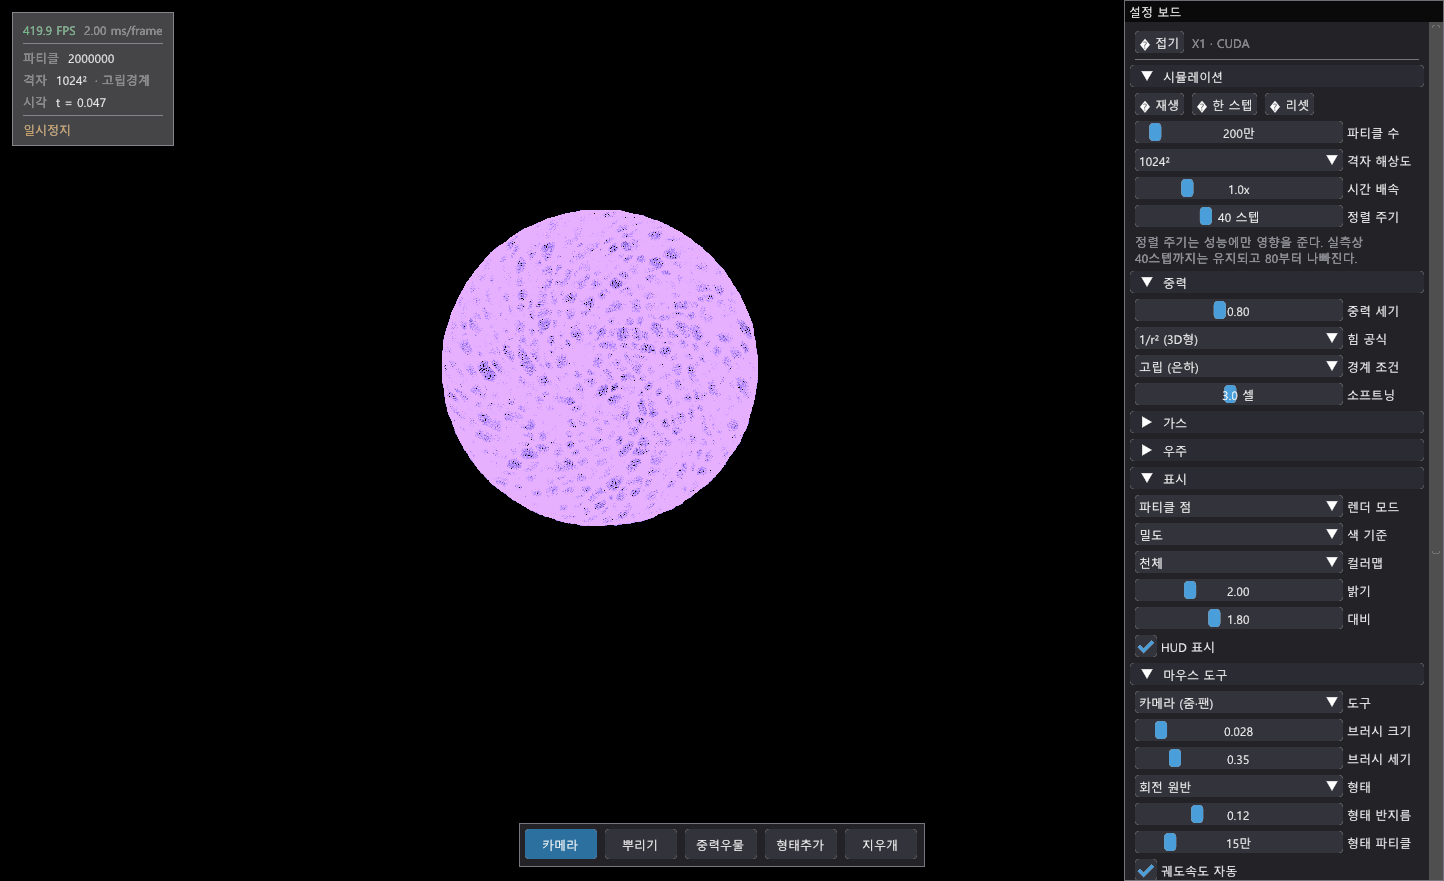
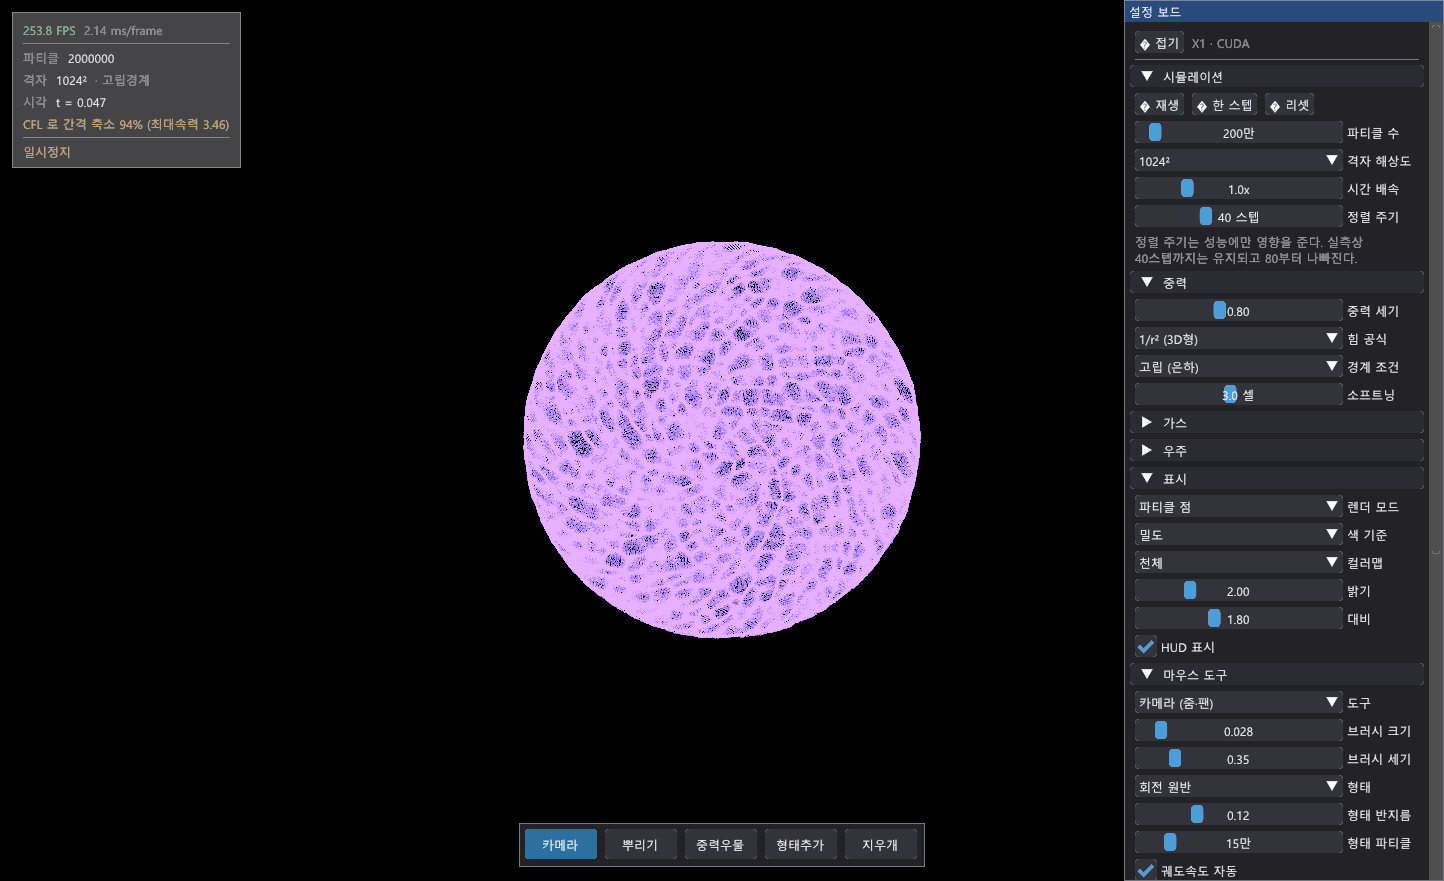
docs: round-07 스펙 카운터 복구와 바퀴 기록
되돌렸던 11항목 중 8항목을 증분 1에서, 3항목을 증분 2에서 근거와 함께 다시 채웠다.
증분 3까지의 판단 기록과 남은 항목을 work.md 에 적었다.

Changed region(s): [[0.2805, 0.2145, 0.6544, 0.7355], [0.0, 0.0, 0.187, 0.2145], [0.7791, 0.0, 1.0, 0.0306]]

diff --git a/.drive/nbody-simulator/work.md b/.drive/nbody-simulator/work.md
@@ -50,11 +50,46 @@ resume_idle_count: 0
 | round-04 | 커밋 `6b2dfbd`, `round-04-spec-compare.md`, 회귀 24 PASS + MCP 시나리오 7 PASS | 마우스 개입 6항목 완료. 미충족 **9** |
 | round-05 | 커밋 `c6c88f1`, `round-05-spec-compare.md`, 회귀 24 PASS + MCP 가스/우주/표시/녹화 8 PASS | **미충족 0 / 충족 44 — 6번 칸 PASS** |
 | round-06 | `round-06-review.md`(codex gpt-5.6-sol), `round-06-qa.md` + 스크린샷 38장 | 7번 칸 **GATE: FAIL**(P1 17 / P2 21) · 8번 칸 **QA FAIL**(37 PASS / 3 FAIL / 4 확인불가) → 5번 칸으로 되돌아감 |
+| round-07 증분 1 | 커밋 `1a921ce`, `mcp/bridge-test.js`(신규 영구 회귀), 회귀 **25 PASS** + 브릿지 **5 PASS** | 설정 전달 경로·시간 배속·상태 노출 복구. 되돌린 11항목 중 **8항목 회복 → 미충족 3** |
+| round-07 증분 2 | 커밋 `d398231`, `round-07-qa/points-cmap-*.png`, 회귀 **27 PASS** + 브릿지 **5 PASS** | `isStar` 정렬·압축(P1 #5·#6), 주기 경계 소프트닝(P2 #19), 점 렌더 컬러맵(P2 #26). **미충족 0** |
+| round-07 증분 3 | 커밋 `3d2ec4d`, 회귀 **27 PASS** + 브릿지 **7 PASS** | 남은 P1 전부: CUDA 오류 차단(#7·#8·#9·#12) · VRAM 추정(#10·#11) · 입력 검증(#13) · MCP 주입·동시성·step 완료·경로(#14~#17). P2 도 #27·#29·#30·#31·#36·#38 처리 |
 
 ## 다음 칸
 
-**round-07 = 5번 칸(구현 루프)** — 7·8번 칸이 둘 다 FAIL 이라 바퀴를 올려 되돌아간다.
-고치고 나면 7(재리뷰) → 8(재QA, 손댄 부분만) → 9(regression) → 10(보고).
+**round-07 증분 2 = 5번 칸 계속** — 미충족 3항목이 각각 남은 P1/P2 에 걸려 있다.
+
+| 미충족 항목 | 걸린 결함 |
+|---|---|
+| 소프트닝을 조절해 근거리 거동이 달라진다 | P2 #19 — 주기 경계 주파수 커널이 `softeningCells` 를 안 쓴다(`Sim.cu:731`) |
+| 별 형성을 켜서 조밀·차가운 가스가 별로 바뀐다 | P1 #5 정렬이 `isStar` 를 안 옮김 · #6 지우개 압축이 `isStar` 를 안 압축 · #4 부분 점유 정렬 불변식 |
+| 컬러맵을 천체/흑백/열화상으로 바꾼다 | P2 #26 — 점 렌더 커널에 `cmapKind` 를 안 넘긴다(`RenderField.cu:100`) |
+
+**증분 3(다음)** — 스펙 미충족은 0 이지만 **7번 칸 재리뷰가 아직 못 통과한다.** 남은 P1 8건:
+CUDA 오류 처리(#7 로그 후 계속 · #8 cuFFT 계획 실패 무시 · #9 CUB sort 반환값 미확인 ·
+#12 `devAccum_` 할당 미확인) · VRAM 추정 누락(#10) · `maxN==0` 클램프 생략(#11) ·
+외부 설정 범위 검증(#13) · MCP 명령 주입(#14) · 동시 호출 충돌(#15) · step 완료 미확인(#16) ·
+스크린샷 경로 무제한(#17). 끝내면 7(재리뷰) → 8(재QA) → 9(regression) → 10(보고).
+
+- [round-07 · 5번 칸] **판정 지표를 이 바퀴에만 다섯 번 고쳤다** — 소프트닝 하나에서 네 번
+  (구조형성 프리셋: 안 뭉쳐 9.21 동일 → 나선팔: `kSetOrbit` 이 궤도속도로 상쇄해 6% → 정지 덩어리
+  250스텝: 밀도가 격자 해상도에 포화해 43.6 동일 → **정지 덩어리 150스텝의 최대속력 1.81배**),
+  컬러맵에서 한 번(전체 화면 평균색을 쟀더니 우측 설정 보드의 청회색이 섞였다 — 세 컬러맵의
+  표본 픽셀 수가 25107 로 **똑같이** 나온 것이 단서였다. 보드·툴바 영역을 빼자 gray 가 R=G=B 로 떨어졌다).
+  전부 기준을 낮춘 것이 아니라 **지표가 그 질문에 답하지 못하는** 경우였다.
+  이 판에서 지표 오류가 누적 6건이라 `report-review-me.md` 에 「측정하려는 양이 지표에 실제로
+  드러나는지부터 확인한다」로 올린다.
+
+- [round-07 · 5번 칸] **`needApply` 플래그를 없애고 매 프레임 동기화로 바꿨다** — 근거: 위젯마다 표시를
+  손으로 켜는 구조라 17군데가 빠져 있었고, 같은 실수가 다음 위젯에서 또 난다. `Sim::reconfigure` 가
+  이미 `needRealloc` 을 스스로 계산하므로(`Sim.cu:873-877`) 매 프레임 넘겨도 재할당은 안 일어난다.
+  상세는 `implement-note.md` 「round-07 이탈 항목」.
+- [round-07 · 5번 칸] **배속 > 1 을 dt 확대가 아니라 프레임당 스텝 반복으로 냈다** — 근거: CFL 은 넘으면
+  적분이 무너지는 안정성 한계라 dt 를 못 늘린다. 대신 계산량이 배수로 늘어난다는 사실을 보드 안내와
+  상태(`stepsPerFrame`)에 드러냈다. **벽시계 시간당 진행량으로는 이 효과가 안 보인다** — 프레임이
+  그만큼 오래 걸려 초당 프레임 수가 함께 줄기 때문이다(실측 1.5초에 1.0x=0.012930 / 3.0x=0.015830).
+- [round-07 · 5번 칸] **브릿지 테스트 지표를 세 번 고쳤다** — 최대밀도→최대속력(CFL 이 밀도 차이를 지운다),
+  벽시계 진행량→프레임당 스텝 수, 점유셀→`activeCount`(프리셋마다 격자 크기가 달라 점유셀을 못 견준다).
+  셋 다 "지표가 그 질문에 답하지 못하는" 경우였지 기준을 낮춘 것이 아니다.
 
 - [round-06 · 7·8번 칸] **미충족 0 인데도 판을 안 끝냈다** — 근거: 스펙 카운터는 44/44 지만 리뷰가 P1 17건,
   QA 가 실제 미동작 3건을 찾았다. 스펙 항목이 `[x]` 인 것과 그 행동이 실제로 되는 것은 다르다 —
